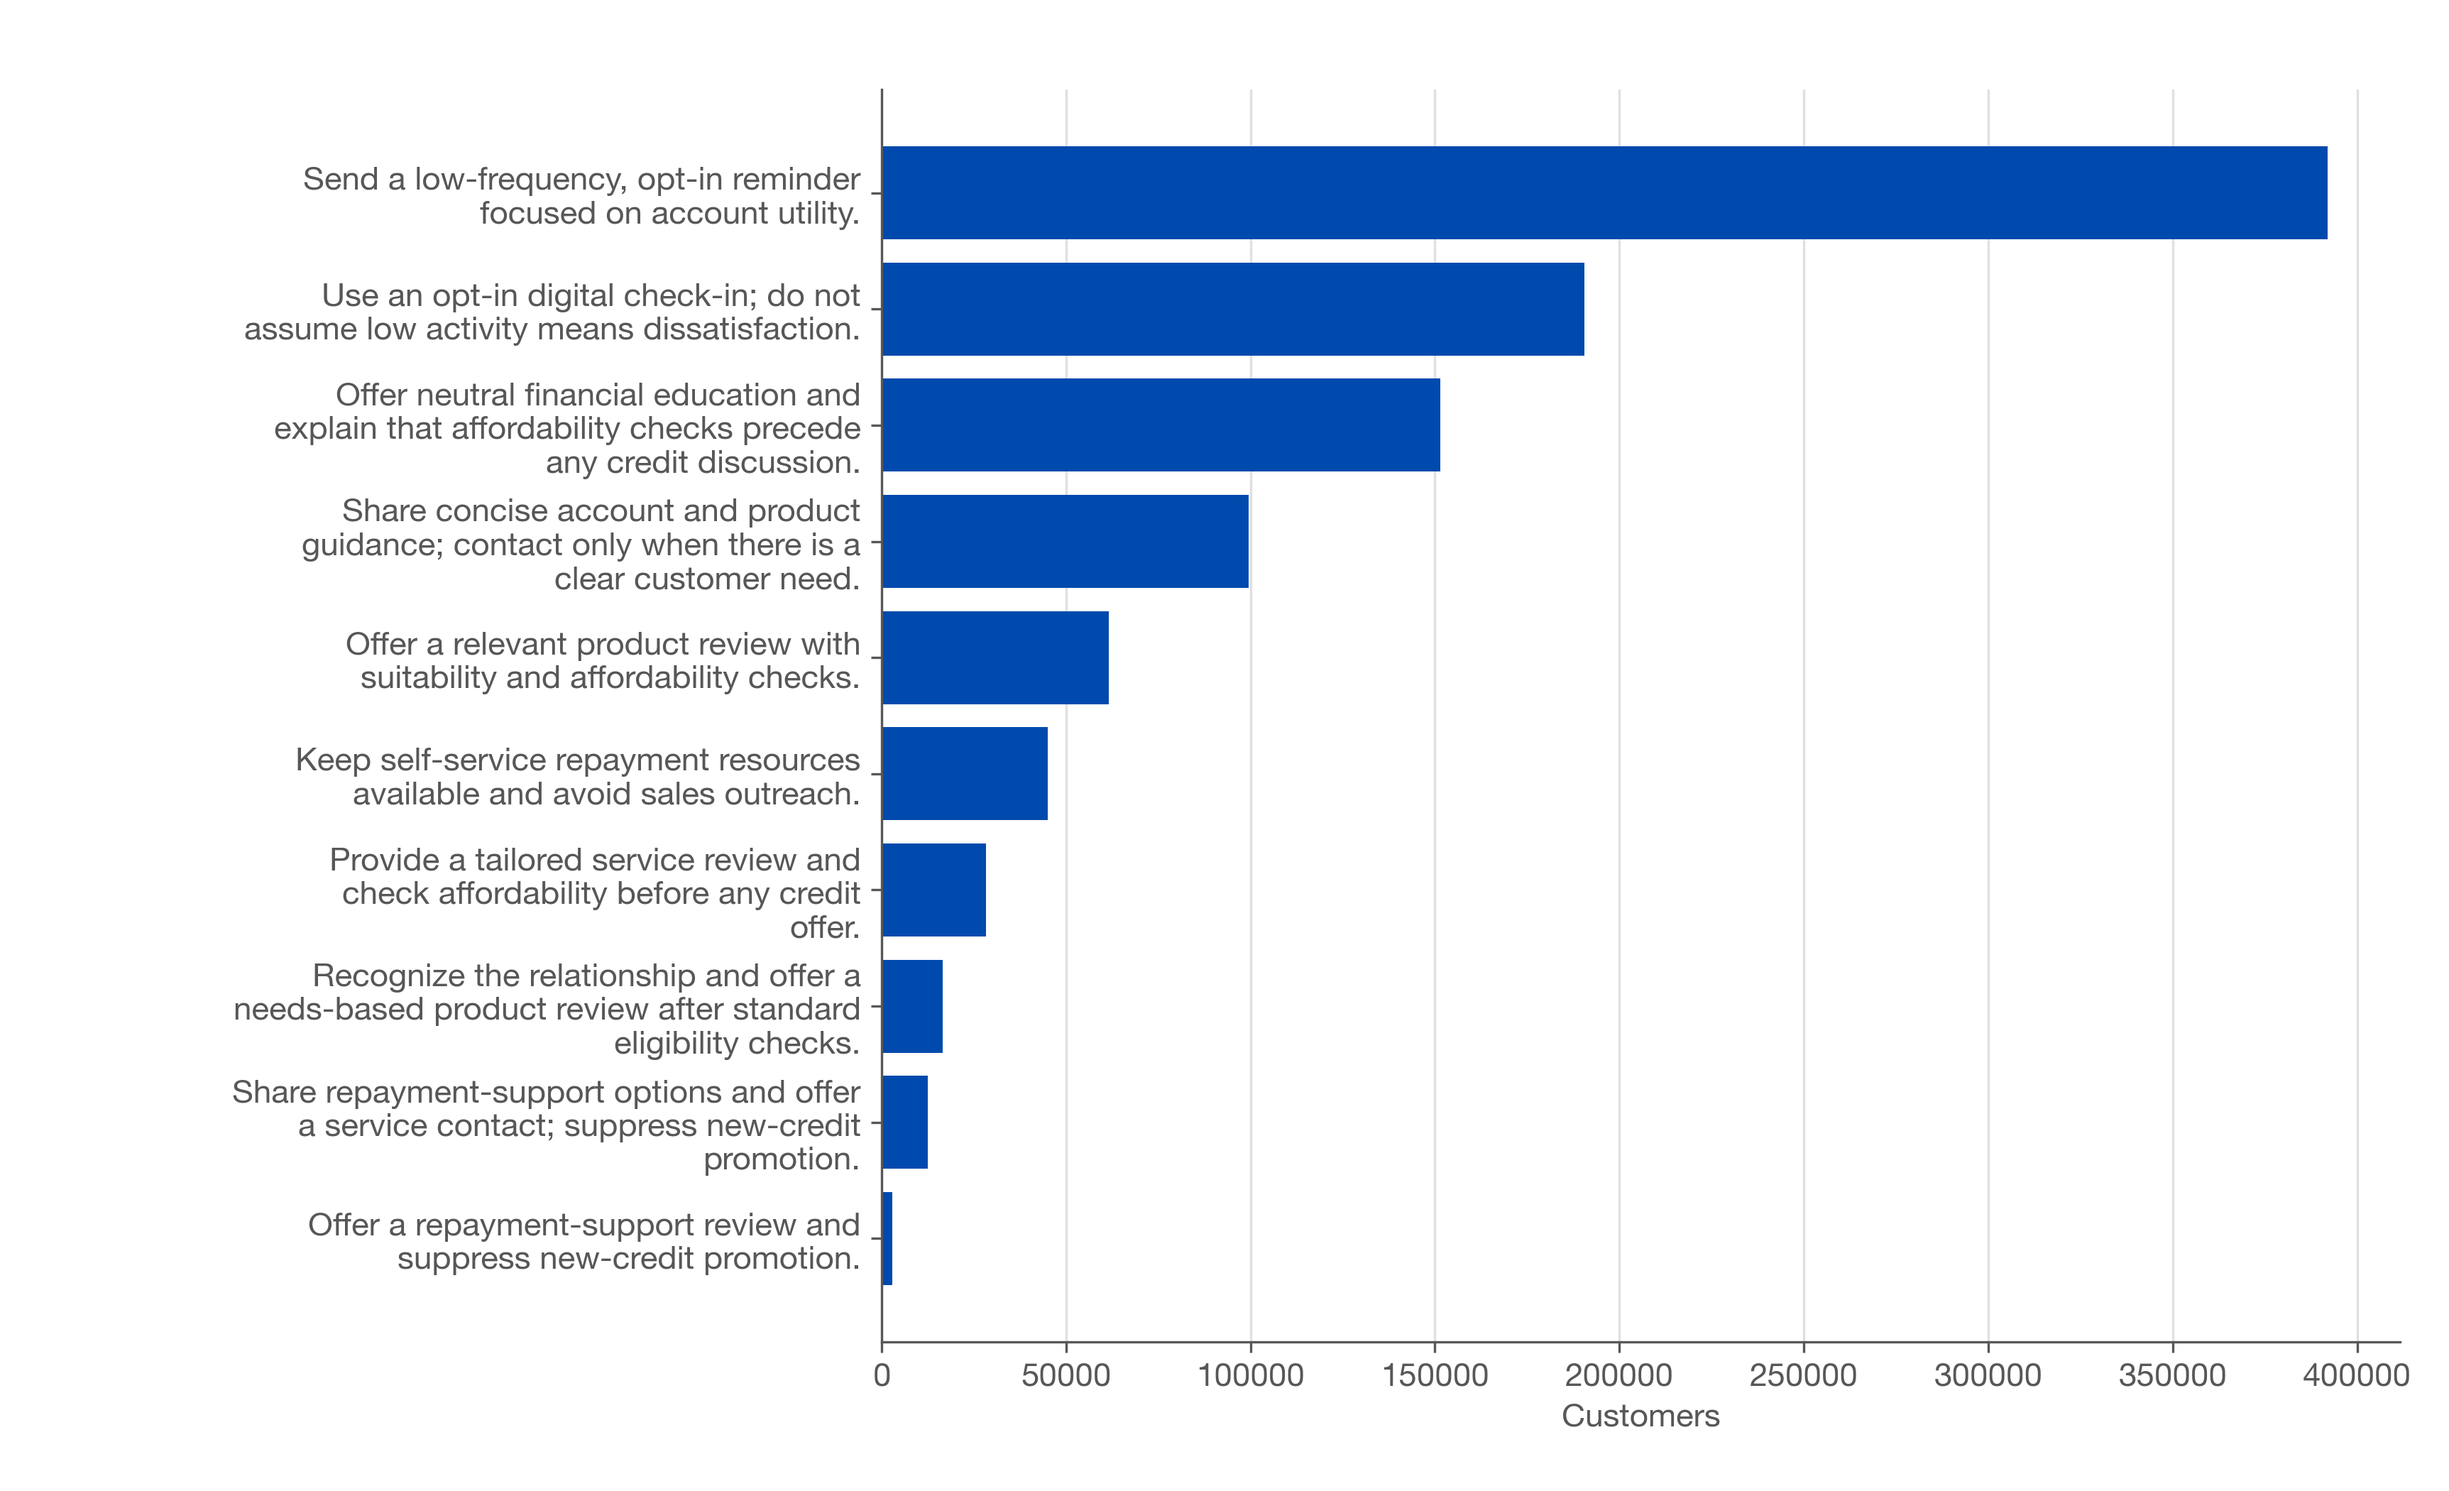
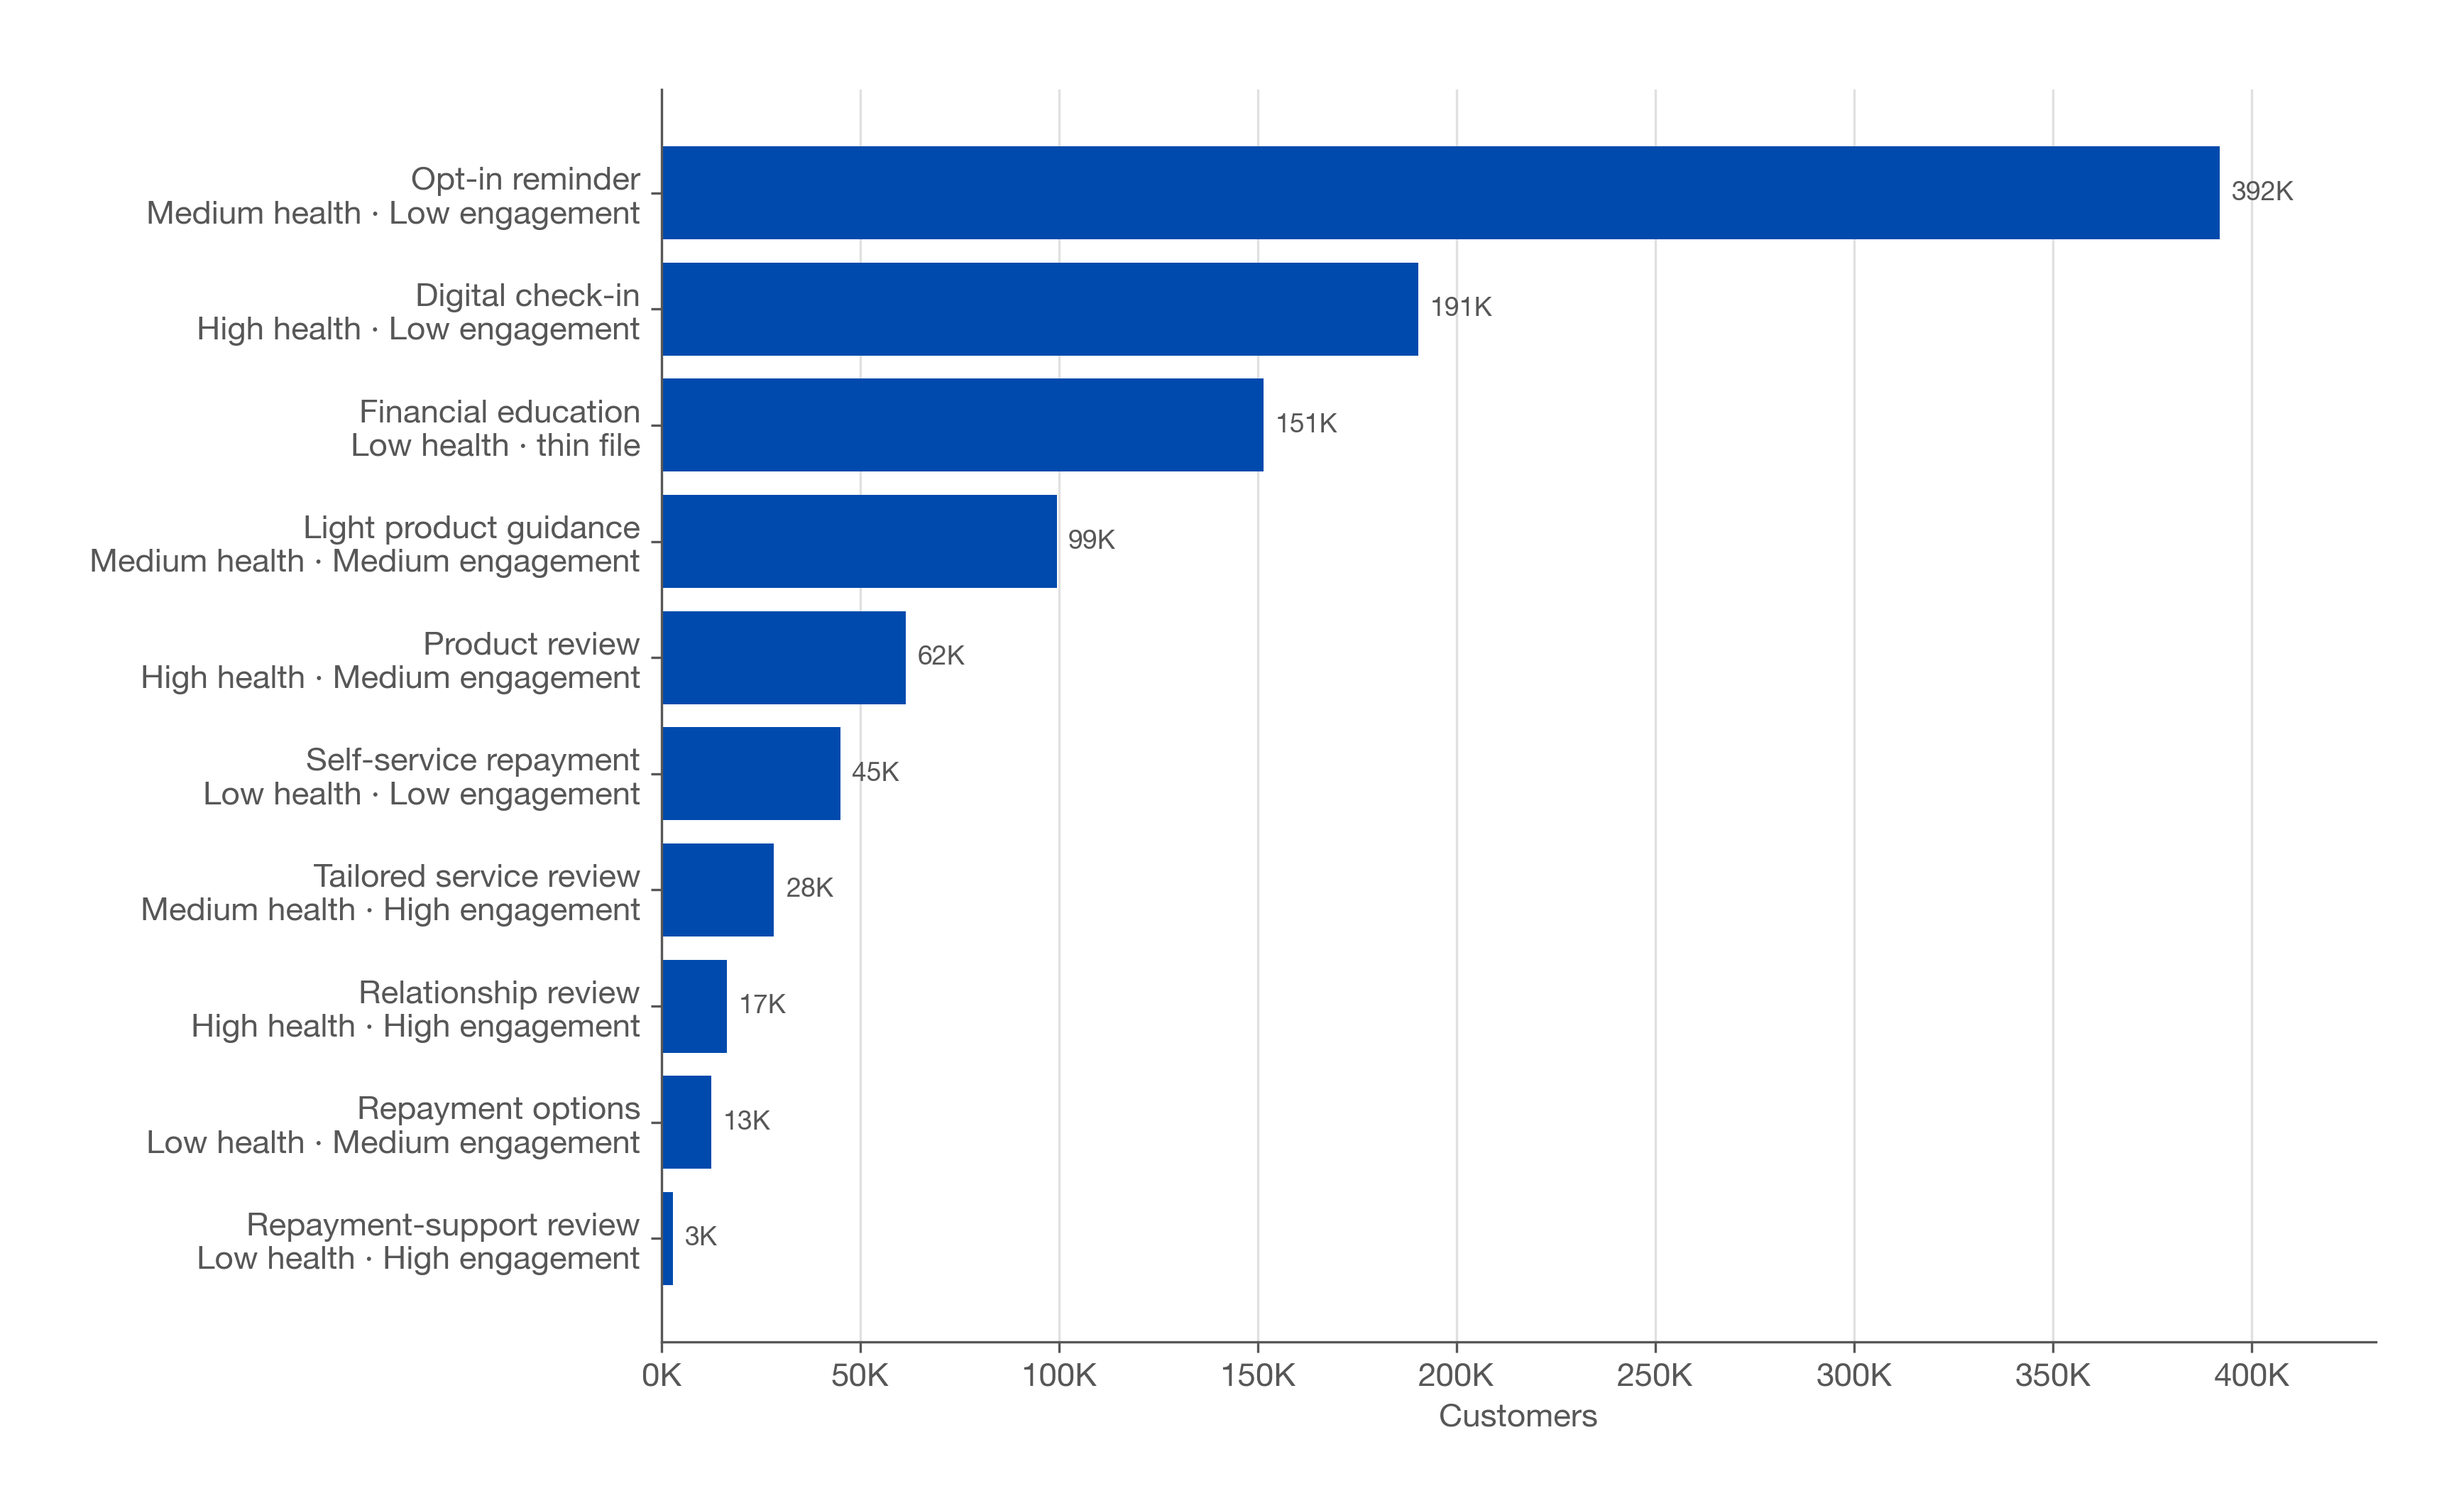
style(task3): shorten action labels on action-volume chart
Chart-only keyword + health x engagement labels, count labels and K-formatted axis;
the customer CSV keeps the full Next_Best_Action text.

diff --git a/Code/5. Task 3.py b/Code/5. Task 3.py
@@ -682,13 +682,30 @@ def plot_low_health_profile(output: pd.DataFrame) -> None:
 def plot_action_volume(output: pd.DataFrame) -> None:
     from textwrap import fill
 
+    # chart-only short names (keyword + health x engagement cell); the CSV keeps the full action text
+    short = {
+        "Send a low-frequency, opt-in reminder": "Opt-in reminder\nMedium health · Low engagement",
+        "Use an opt-in digital check-in": "Digital check-in\nHigh health · Low engagement",
+        "Offer neutral financial education": "Financial education\nLow health · thin file",
+        "Share concise account and product guidance": "Light product guidance\nMedium health · Medium engagement",
+        "Offer a relevant product review": "Product review\nHigh health · Medium engagement",
+        "Keep self-service repayment resources": "Self-service repayment\nLow health · Low engagement",
+        "Provide a tailored service review": "Tailored service review\nMedium health · High engagement",
+        "Recognize the relationship": "Relationship review\nHigh health · High engagement",
+        "Share repayment-support options": "Repayment options\nLow health · Medium engagement",
+        "Offer a repayment-support review": "Repayment-support review\nLow health · High engagement",
+    }
     counts = output.Next_Best_Action.value_counts().sort_values()
-    labels = [fill(str(action), width=42, break_long_words=False, break_on_hyphens=False) for action in counts.index]
+    labels = [next((v for k, v in short.items() if str(action).startswith(k)),
+                   fill(str(action), width=42, break_long_words=False, break_on_hyphens=False)) for action in counts.index]
     fig, ax = plt.subplots(figsize=(11.5, max(7, 0.7 * len(counts))))
-    ax.barh(labels, counts.values, color=PAL["navy"])
+    bars = ax.barh(labels, counts.values, color=PAL["navy"])
+    ax.bar_label(bars, labels=[f"{v / 1e3:,.0f}K" if v >= 1000 else f"{v:,}" for v in counts.values], padding=4, fontsize=9)
+    ax.xaxis.set_major_formatter(plt.FuncFormatter(lambda x, _: f"{x / 1e3:,.0f}K"))
+    ax.set_xlim(0, counts.max() * 1.1)
     ax.set_xlabel("Customers")
     ax.grid(axis="y", visible=False)
-    save_fig(fig, TASK3_FIGURES / "02_action_volume.png", None, left=0.36, right=0.98)
+    save_fig(fig, TASK3_FIGURES / "02_action_volume.png", None, left=0.27, right=0.97)
 
 
 def display_saved_figure(path: Path) -> None:
